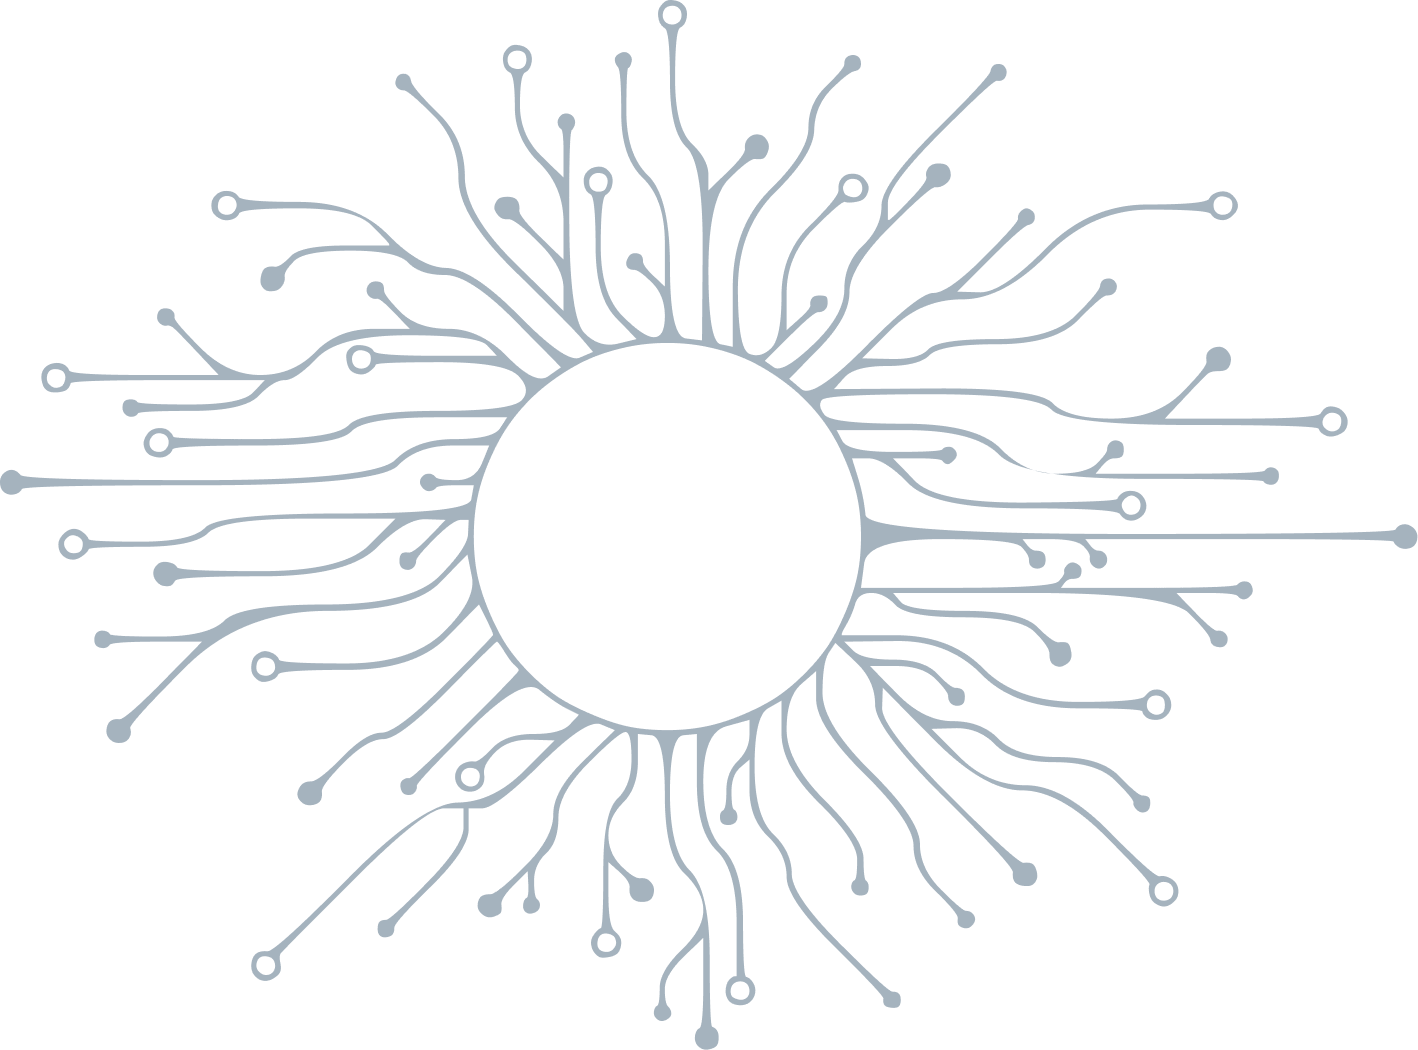
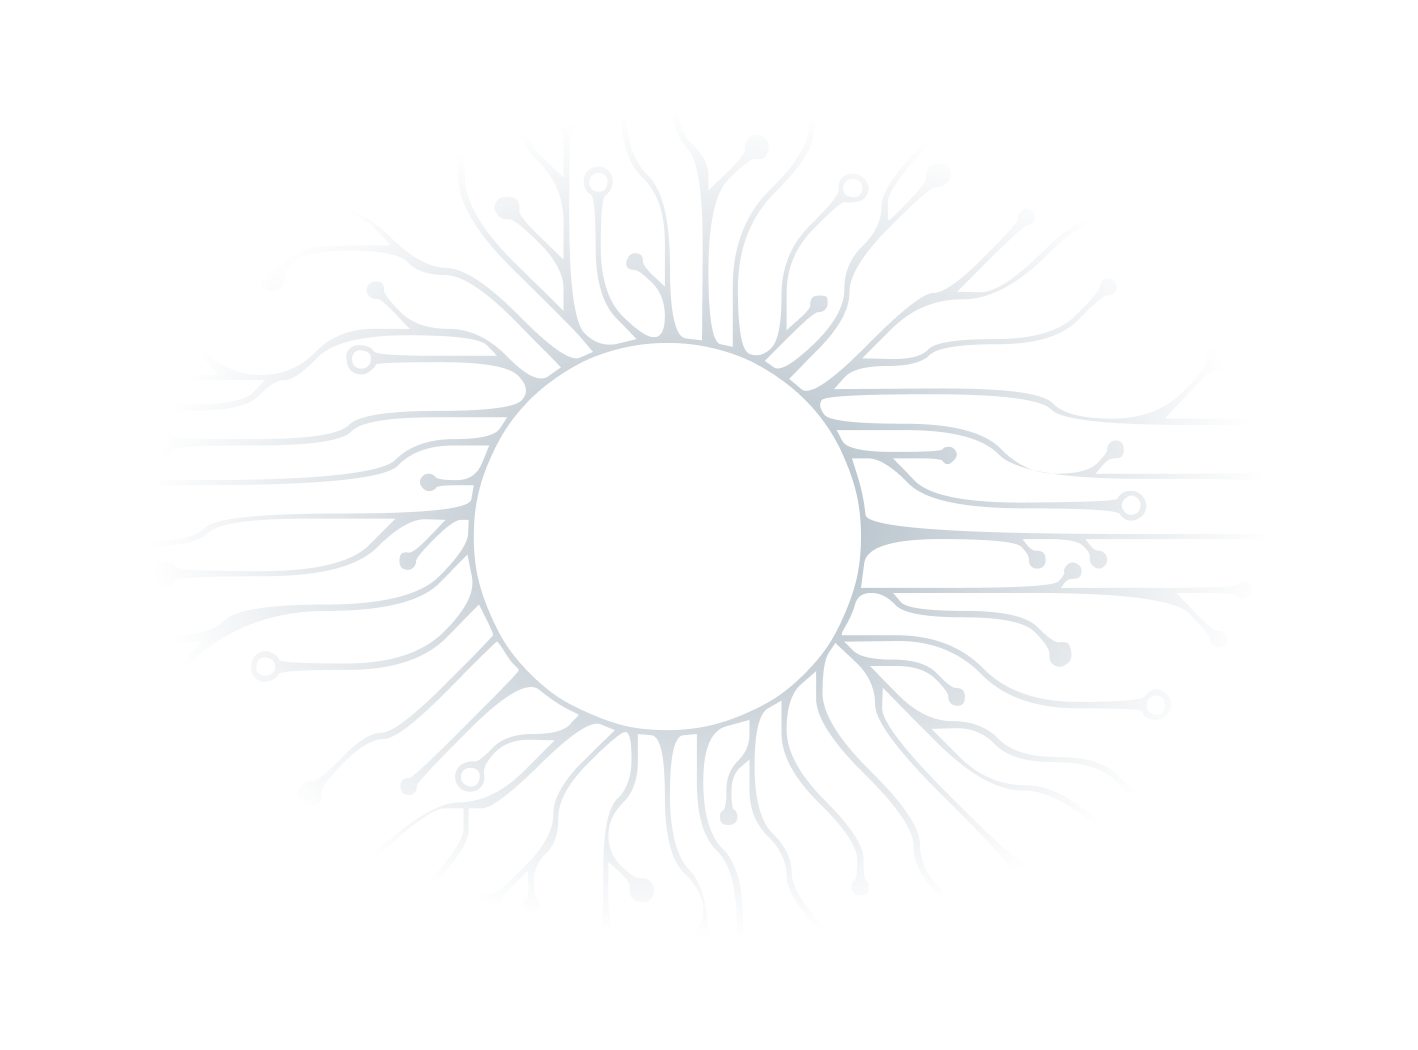
Many changes

diff --git a/static-page-main-2/style.css b/static-page-main-2/style.css
@@ -31,23 +31,39 @@ html {
     width: 100vw;
     height: 100%;
     overflow-x: hidden;
-    scroll-snap-type: y proximity;
+    color: #F3F7FB;
 }
 
 body {
     width: 100vw;
     margin: 0;
     padding: 0;
-    background: rgb(21, 130, 107);
-    background: linear-gradient(121deg, #1f5d2f 0%, #25252a 39%, #1f5d2f 0% 86%, #25252a 100%);
+    background: rgb(31, 93, 47);
+    background: linear-gradient(121deg, rgba(31, 93, 47, 1) 0%, rgba(0, 0, 0, 1) 51%, rgba(31, 93, 47, 1) 86%);
+}
+
+.padding {
+    scroll-snap-align: start;
+    height: 6vh;
+}
+
+.content {
+    height: 100vh;
 }
 
 #navbar {
     position: fixed;
-    background-color: #091e05;
     width: 100%;
     top: 0;
     height: 6vh;
+    transition: 1s;
+}
+
+.sticky {
+    /* background-color: rgb(30, 91, 46, 95%); */
+    background-color: #1B1716;
+    transition: 1s;
+    /* border-radius: 0 0 40px 40px; */
 }
 
 .navbar-container {
@@ -61,7 +77,7 @@ body {
 .navbar-container a {
     text-decoration: none;
     padding: 10px 20px;
-    color: #426077;
+    color: #8D98A7;
     font-size: 18px;
     transition: 0.5s;
 
@@ -69,9 +85,19 @@ body {
 }
 
 .navbar-container a:hover {
-    color: #91F9E6;
+    color: #F3F7FB;
     transition: 0.5s;
 
+}
+
+#register_button {
+    background-color: inherit;
+    border: none;
+}
+
+#register_button a:hover {
+    background-color: #1F5D2F;
+    border-radius: 4px;
 }
 
 #mlh-trust-badge {
@@ -81,7 +107,7 @@ body {
 
 
 #intro {
-    background-image: url("./img/intro_top_left.png"), url("./img/into_top_right.png"), url("./img/intro_bottom_right.png"), url("./img/intro_mid_left.png"), url("./img/intro_mesh.svg");
+    background-image: url("./img/intro_top_left.png"), url("./img/into_top_right.png"), url("./img/intro_bottom_right.png"), url("./img/intro_mid_left.png"), url("./img/intro_mesh2.png");
     background-repeat: no-repeat;
     background-position: top left, top right, bottom right, bottom 20px left, center center;
     background-size: auto, auto, auto, auto, cover;
@@ -117,20 +143,19 @@ body {
 #intro-txt-2 {
     font-family: "Loveleaves";
     font-size: 2.5em;
-    color: white;
 }
 
 .titles {
     height: fit-content;
-    color: white;
     font-size: 7rem;
     font-family: 'Loveleaves';
 }
 
 #about {
-    background-image: url("./img/intro_title_top_left.png");
+    background-image: url("./img/intro_title_top_left.png"), url("./img/about_mesh2.png");
     background-repeat: no-repeat;
-    background-position: top left;
+    background-position: top left, center center;
+    background-size: auto, cover;
     display: flex;
     flex-direction: column;
     align-items: center;
@@ -172,10 +197,10 @@ body {
 
 
 #sponsors {
-    /* background-image: url("./img/sponsors_mid_left.png"), url("./img/sponsors_mesh.png"); */
+    background-image: url("./img/sponsors_mesh.png");
     background-repeat: no-repeat;
-    background-position: center left, center center;
-    background-size: auto, cover;
+    background-position: center center;
+    background-size: 100% 90%;
     display: flex;
     flex-direction: column;
     align-items: center;
@@ -183,9 +208,10 @@ body {
 }
 
 #speakers {
-    /* background-image: url("./img/speakers_top_right.png"), url("./img/speakers_center_left.png"), url("./img/speakers_bottom_left.png"), url("./img/speakers_mesh.png"); */
+    background-image: url("./img/speakers_mesh.png");
     background-repeat: no-repeat;
-    background-position: top right, center left, bottom left, center center;
+    background-position: 50%;
+    background-size: cover;
     display: flex;
     flex-direction: column;
     align-items: center;
@@ -354,12 +380,3 @@ input[type='checkbox'] {
 #contact-card-left {}
 
 #contact-card-right {}
-
-.padding {
-    scroll-snap-align: start;
-    height: 6vh;
-}
-
-.content {
-    height: 94vh;
-}

diff --git a/static-page-main-2/index.html b/static-page-main-2/index.html
@@ -17,7 +17,6 @@
     <!--Navigation Bar just incase-->
 
 
-    <!------------------------Background Leaves------------------------->
     <div id="navbar">
         <nav class="navbar-container">
             <a href="#about">About</a>
@@ -26,7 +25,7 @@
             <a href="#team">Team</a>
             <a href="#faq">FAQ</a>
             <a href="#contact">Contact</a>
-            <button class="tracking-wide text-white bg-blue-600 rounded-xl" id="register-1">
+            <button id="register_button">
                 <a href="https://jhack2022.herokuapp.com">Register</a>
             </button>
             <a id="mlh-trust-badge"
@@ -38,7 +37,7 @@
         </nav>
     </div>
 
-    <div class="padding"></div>
+    <!------------------------Intro Jacobs Hacks------------------------->
 
     <section id="intro" class="content">
         <div id="intro-txt-1">
@@ -48,10 +47,9 @@
             November 5th-6th
         </div>
     </section>
-
     <!------------------------Intro Jacobs Hacks------------------------->
 
-    <div class="padding"></div>
+
 
     <!--------------------------------ABOUT------------------------------->
     <section id="about" class="content">
@@ -75,7 +73,6 @@
     </section>
     <!--------------------------------ABOUT------------------------------->
 
-    <div class="padding"></div>
 
 
     <!--------------------------------Sponsors------------------------------->
@@ -83,21 +80,20 @@
         <div class="titles">
             <p id="content-title">Sponsors</p>
         </div>
-        <div class="sponsor-img">
-            <div class="sponsor-u-left">
-                <img src="img/Rectangle-sponsor.png" alt="">
+        <div id="sponsors-list">
+            <div id="sponsor-1">
+                Sponsor1
             </div>
-            <div class="sponsor-u-right">
-                <img src="img/Rectangle-sponsor.png" alt="">
+            <div id="sponsor-2">
+                Sponsor2
             </div>
-            <div class="sponsor-d-mid">
-                <img src="img/Rectangle-sponsor.png" alt="">
+            <div id="sponsor-3">
+                Sponsor3
             </div>
         </div>
     </section>
     <!--------------------------------Sponsors------------------------------->
 
-    <div class="padding"></div>
 
 
     <!--------------------------------Speakers------------------------------->
@@ -108,7 +104,6 @@
     </section>
     <!--------------------------------Speakers------------------------------->
 
-    <div class="padding"></div>
 
     <!--------------------------------Schedule------------------------------->
     <section id="schedule" class="content">
@@ -120,7 +115,6 @@
     </section>
     <!--------------------------------Schedule------------------------------->
 
-    <div class="padding"></div>
 
     <!--------------------------------Organizing------------------------------->
 
@@ -132,7 +126,6 @@
     </section>
     <!--------------------------------Organizing!------------------------------->
 
-    <div class="padding"></div>
 
 
     <!--------------------------------FAQ------------------------------->
@@ -330,7 +323,6 @@
 
     <!--------------------------------FAQ------------------------------->
 
-    <div class="padding"></div>
 
 
     <!--______________________________ CONTACT ______________________________-->
@@ -374,7 +366,8 @@
     var sticky = navbar.offsetTop;
 
     function myFunction() {
-        if (window.pageYOffset >= sticky) {
+
+        if (window.pageYOffset > sticky) {
             navbar.classList.add("sticky")
         } else {
             navbar.classList.remove("sticky");
